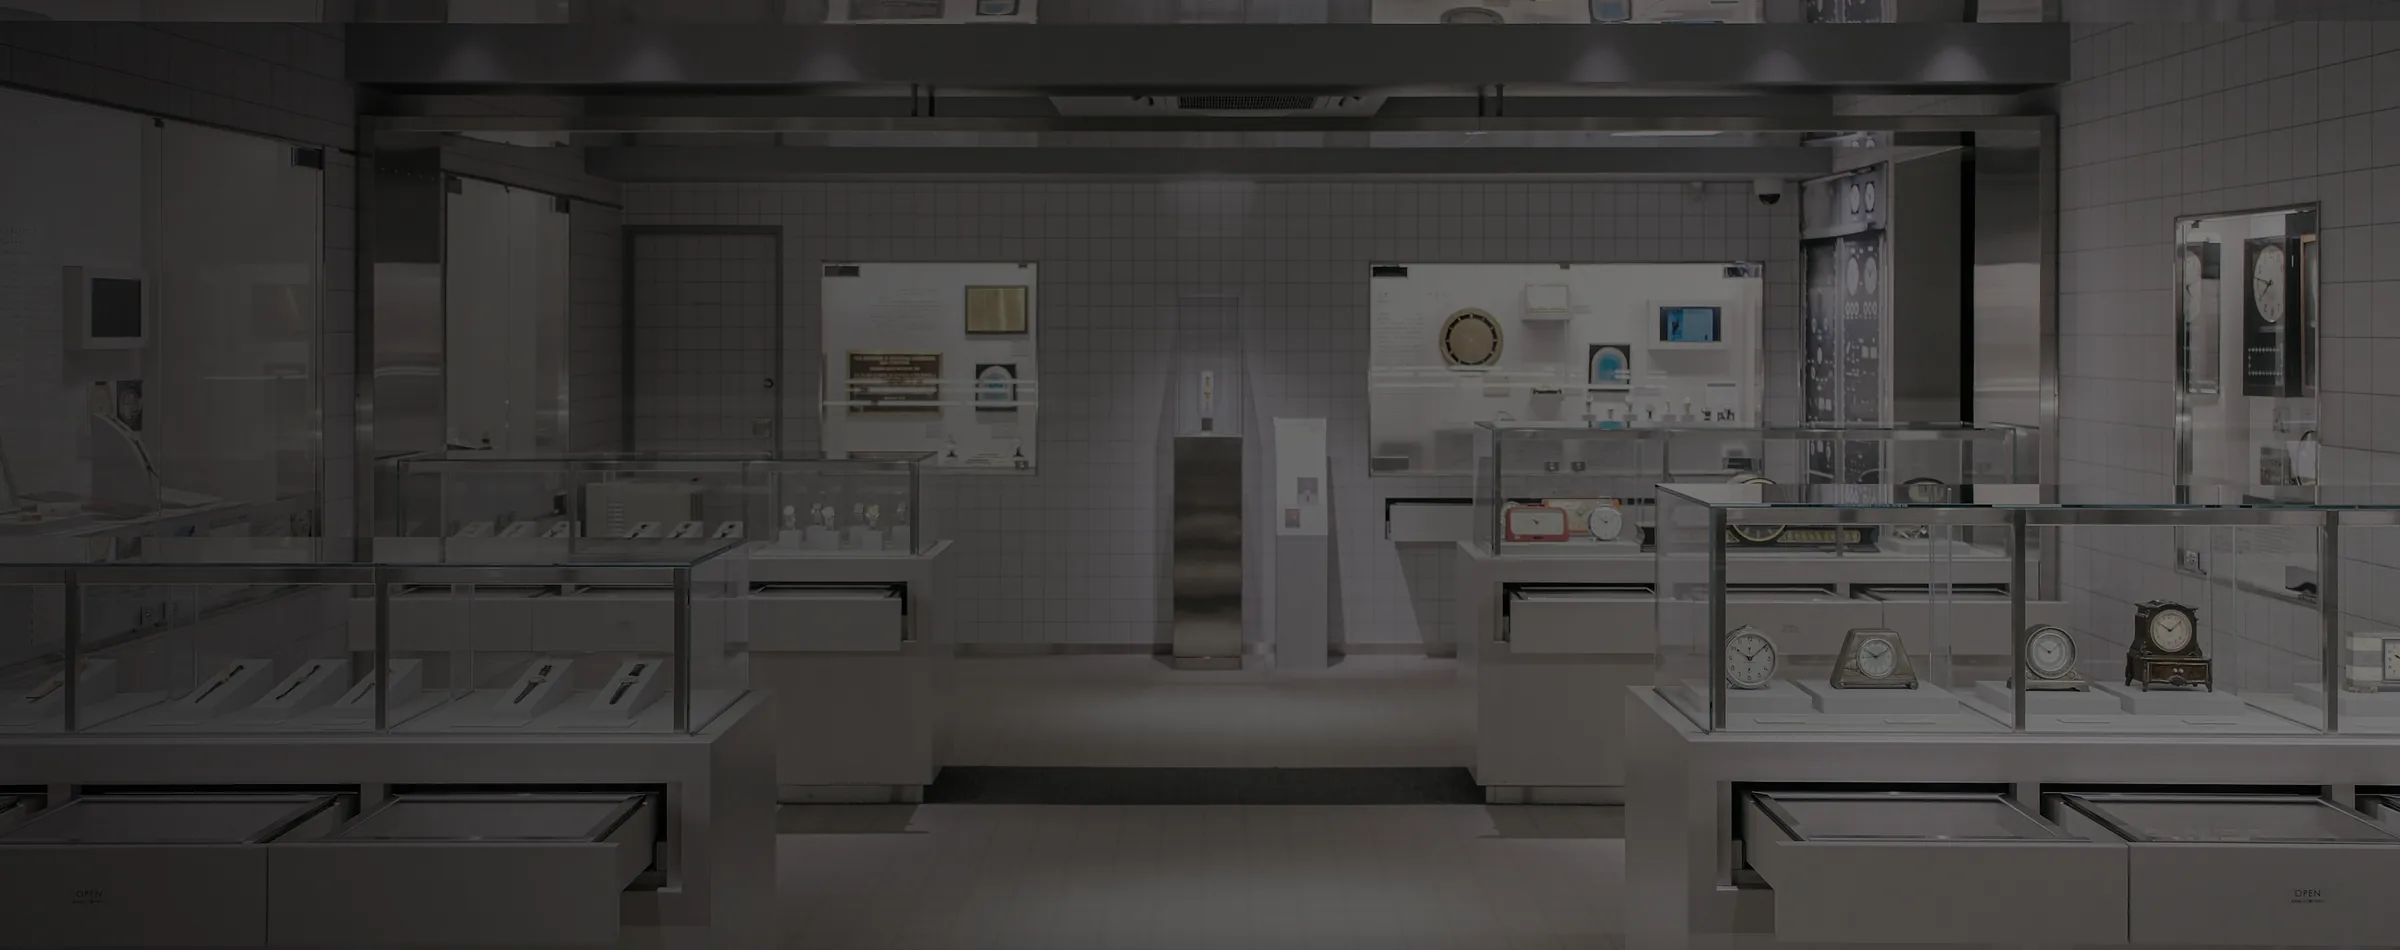
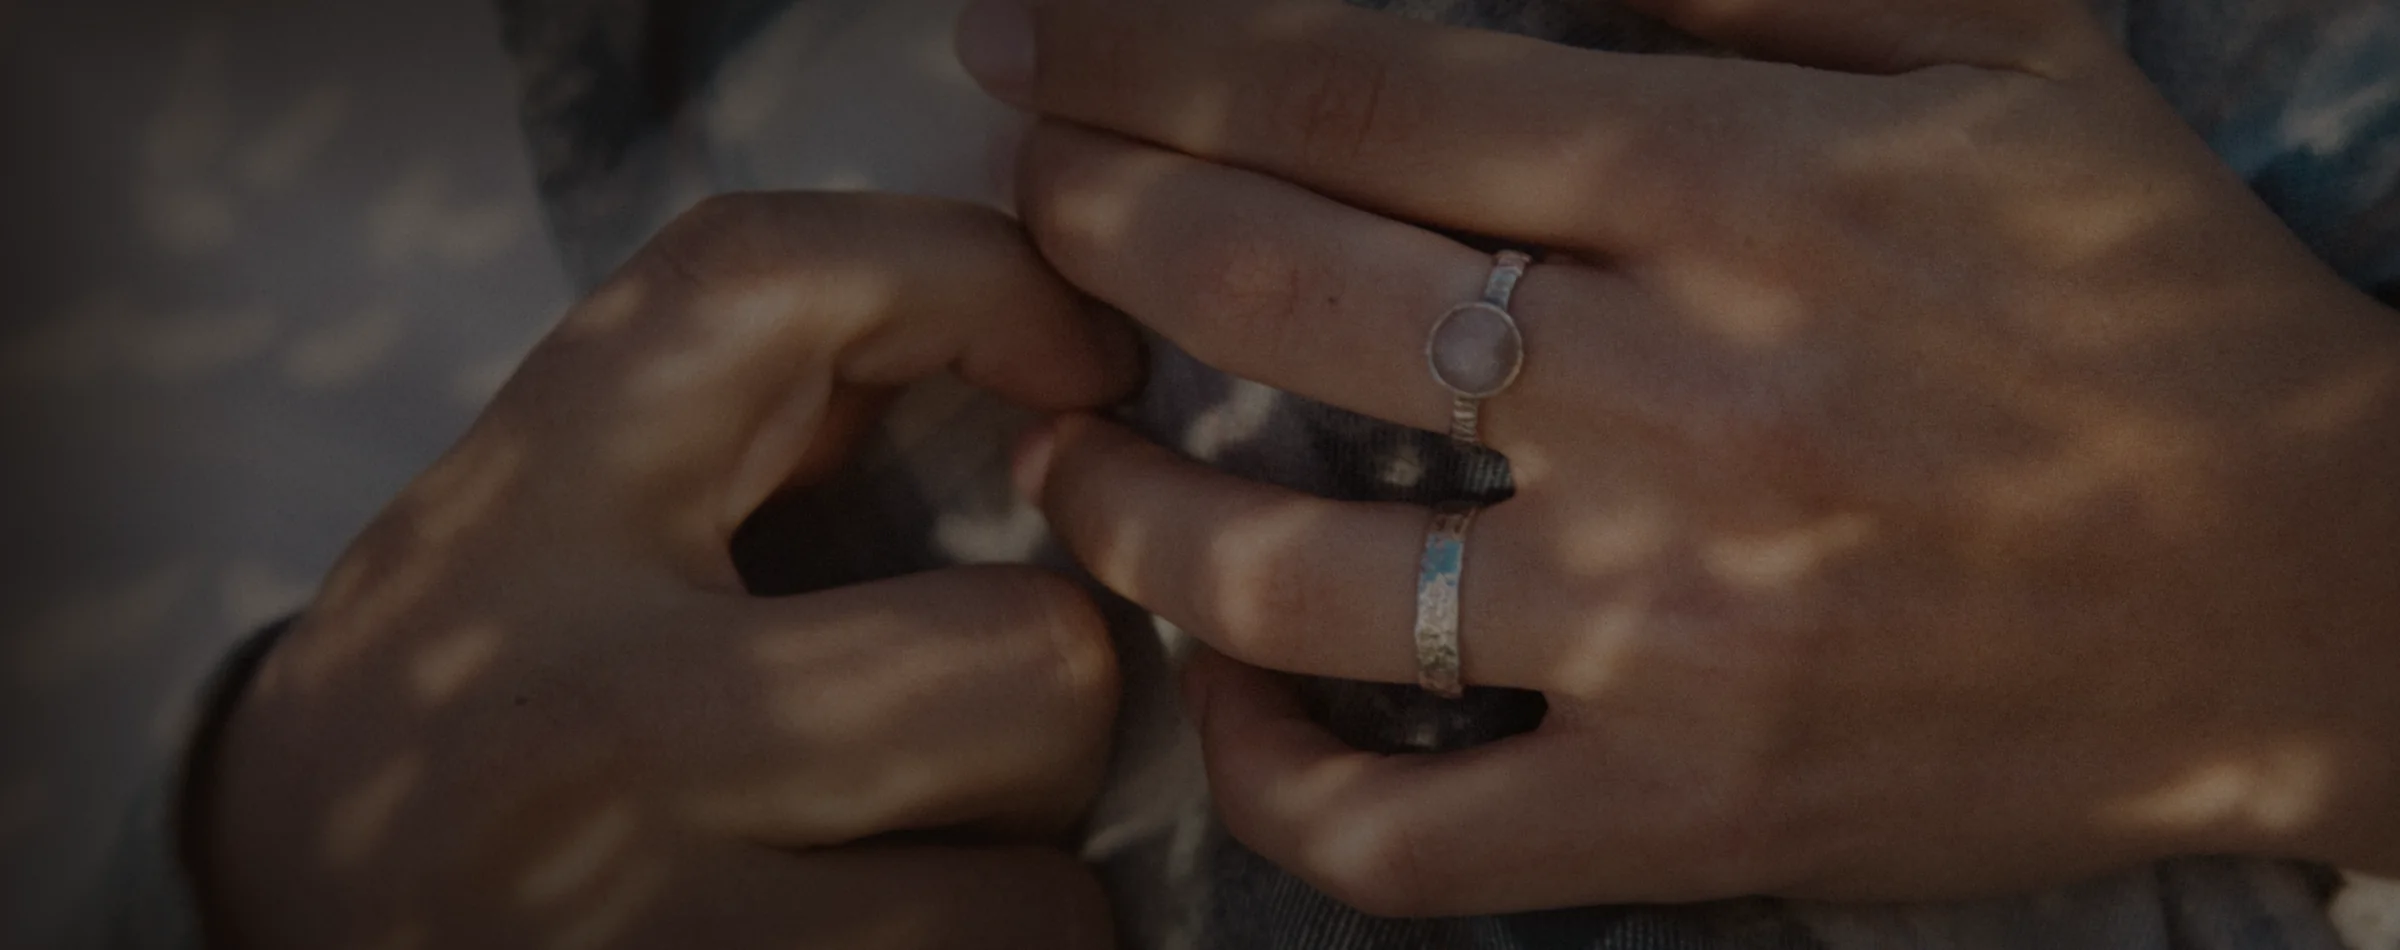
Make about imagery more emotional

diff --git a/ueber.html b/ueber.html
@@ -19,11 +19,11 @@
     </header>
     <main>
       <section class="page-hero">
-        <img src="assets/banners/about-hero.webp" alt="Eleganter Juwelier-Schauraum mit Vitrinen">
+        <img src="assets/banners/about-hero.webp" alt="Hände mit Schmuck als persönlicher Moment">
         <div><p>Ein Team</p><h1>Über uns</h1></div>
       </section>
       <section class="story-band">
-        <div class="story-image"><img src="assets/banners/about-workshop.webp" alt="Handwerkliche Arbeit an einem Ring"></div>
+        <div class="story-image"><img src="assets/banners/about-workshop.webp" alt="Hände mit Verlobungsring als persönlicher Moment"></div>
         <div class="story-copy"><p>Das Wir gewinnt</p><h2>Persönlichkeit, Erfahrung und ein Auge für Details</h2><blockquote>Wir wählen jedes Schmuckstück sorgfältig aus. Qualität, Einzigartigkeit und langfristige Freude stehen im Mittelpunkt jeder Beratung.</blockquote><span>Juwelier Sarikow Wien</span><div class="button-row"><button class="button dark" type="button" data-appointment>Termin vereinbaren</button><a class="button ghost" href="service.html">Service ansehen</a></div></div>
       </section>
       <section class="promise-section">

diff --git a/index.html b/index.html
@@ -138,15 +138,15 @@
         <div class="story-image">
           <img
             src="assets/banners/about-workshop.webp"
-            alt="Schmuckauslage bei Juwelier Sarikow"
+            alt="Hände mit Verlobungsring als persönlicher Moment"
           >
         </div>
         <div class="story-copy">
-          <p>Brillante Schönheiten</p>
-          <h2>Wir lassen Erinnerungen glänzen</h2>
+          <p>Persönliche Momente</p>
+          <h2>Schmuck für Augenblicke, die bleiben</h2>
           <blockquote>
-            Wir kuratieren jedes Stück mit Blick auf Qualität, Material, Proportion und die
-            Persönlichkeit der Menschen, die es tragen.
+            Manche Stücke trägt man nicht nur, weil sie schön sind. Man trägt sie, weil sie an
+            einen Menschen, ein Versprechen oder einen besonderen Tag erinnern.
           </blockquote>
           <span>Reinprechtsdorfer Straße 46, Wien</span>
           <div class="button-row">
